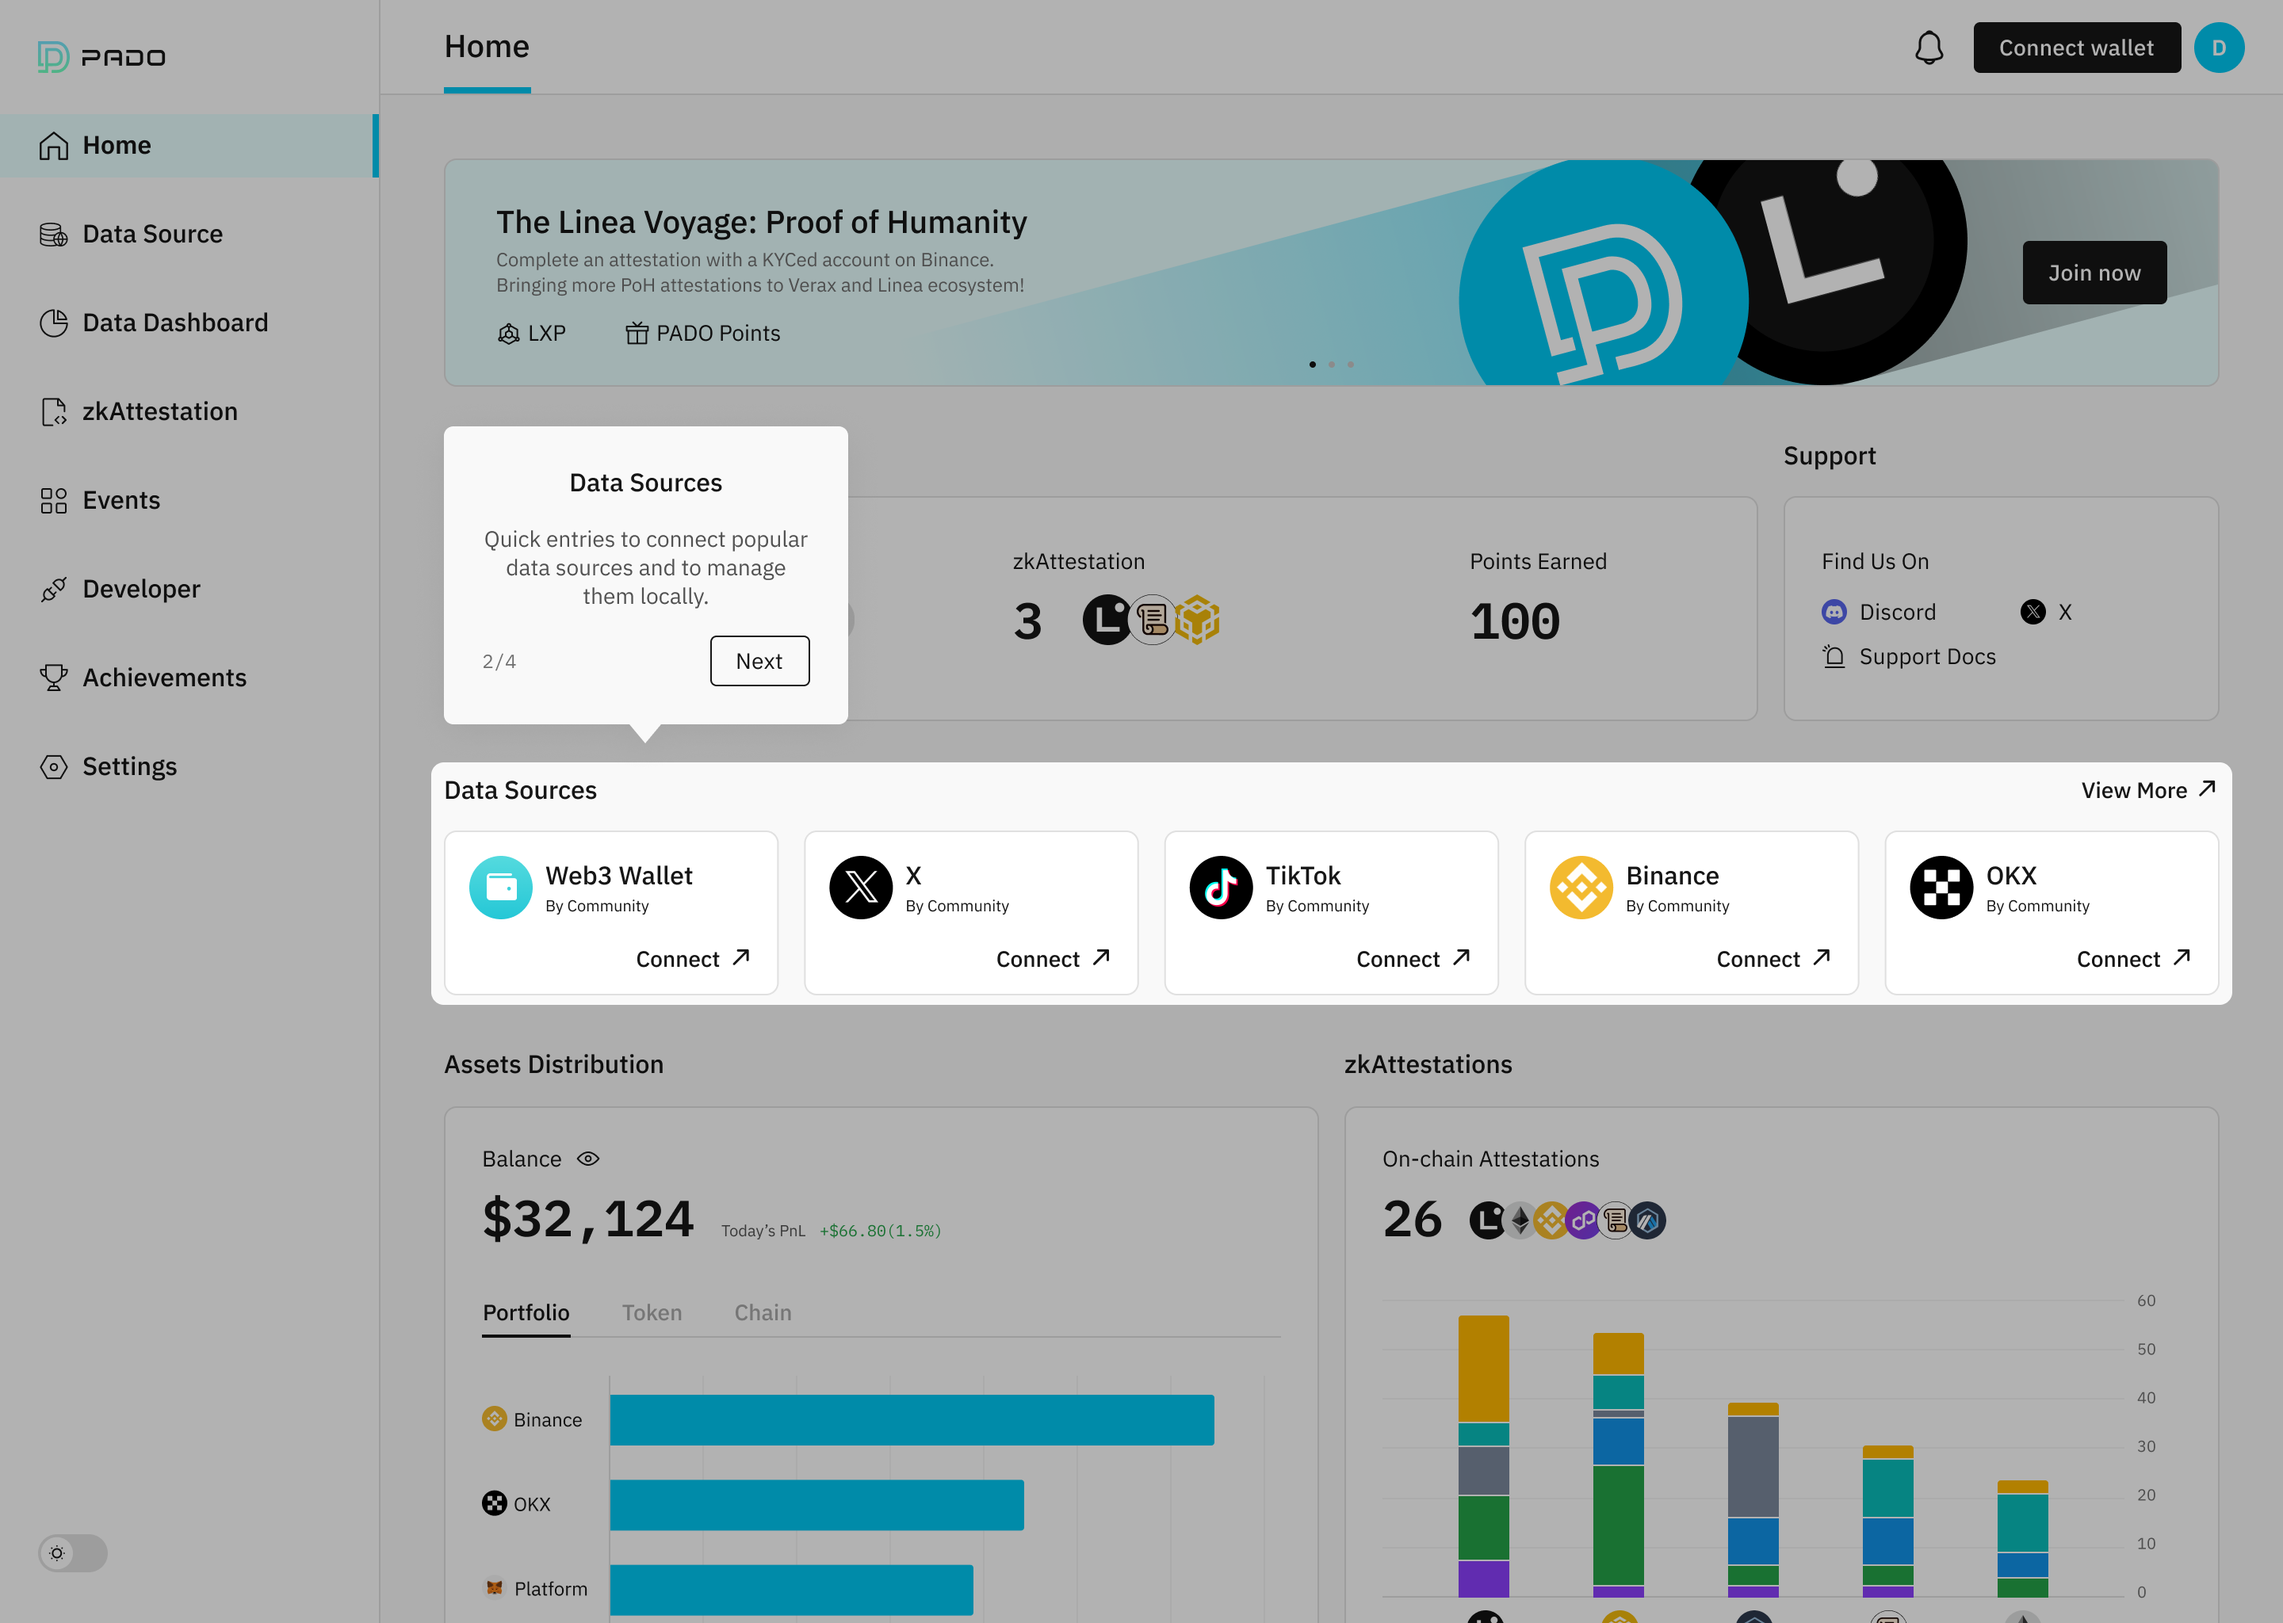
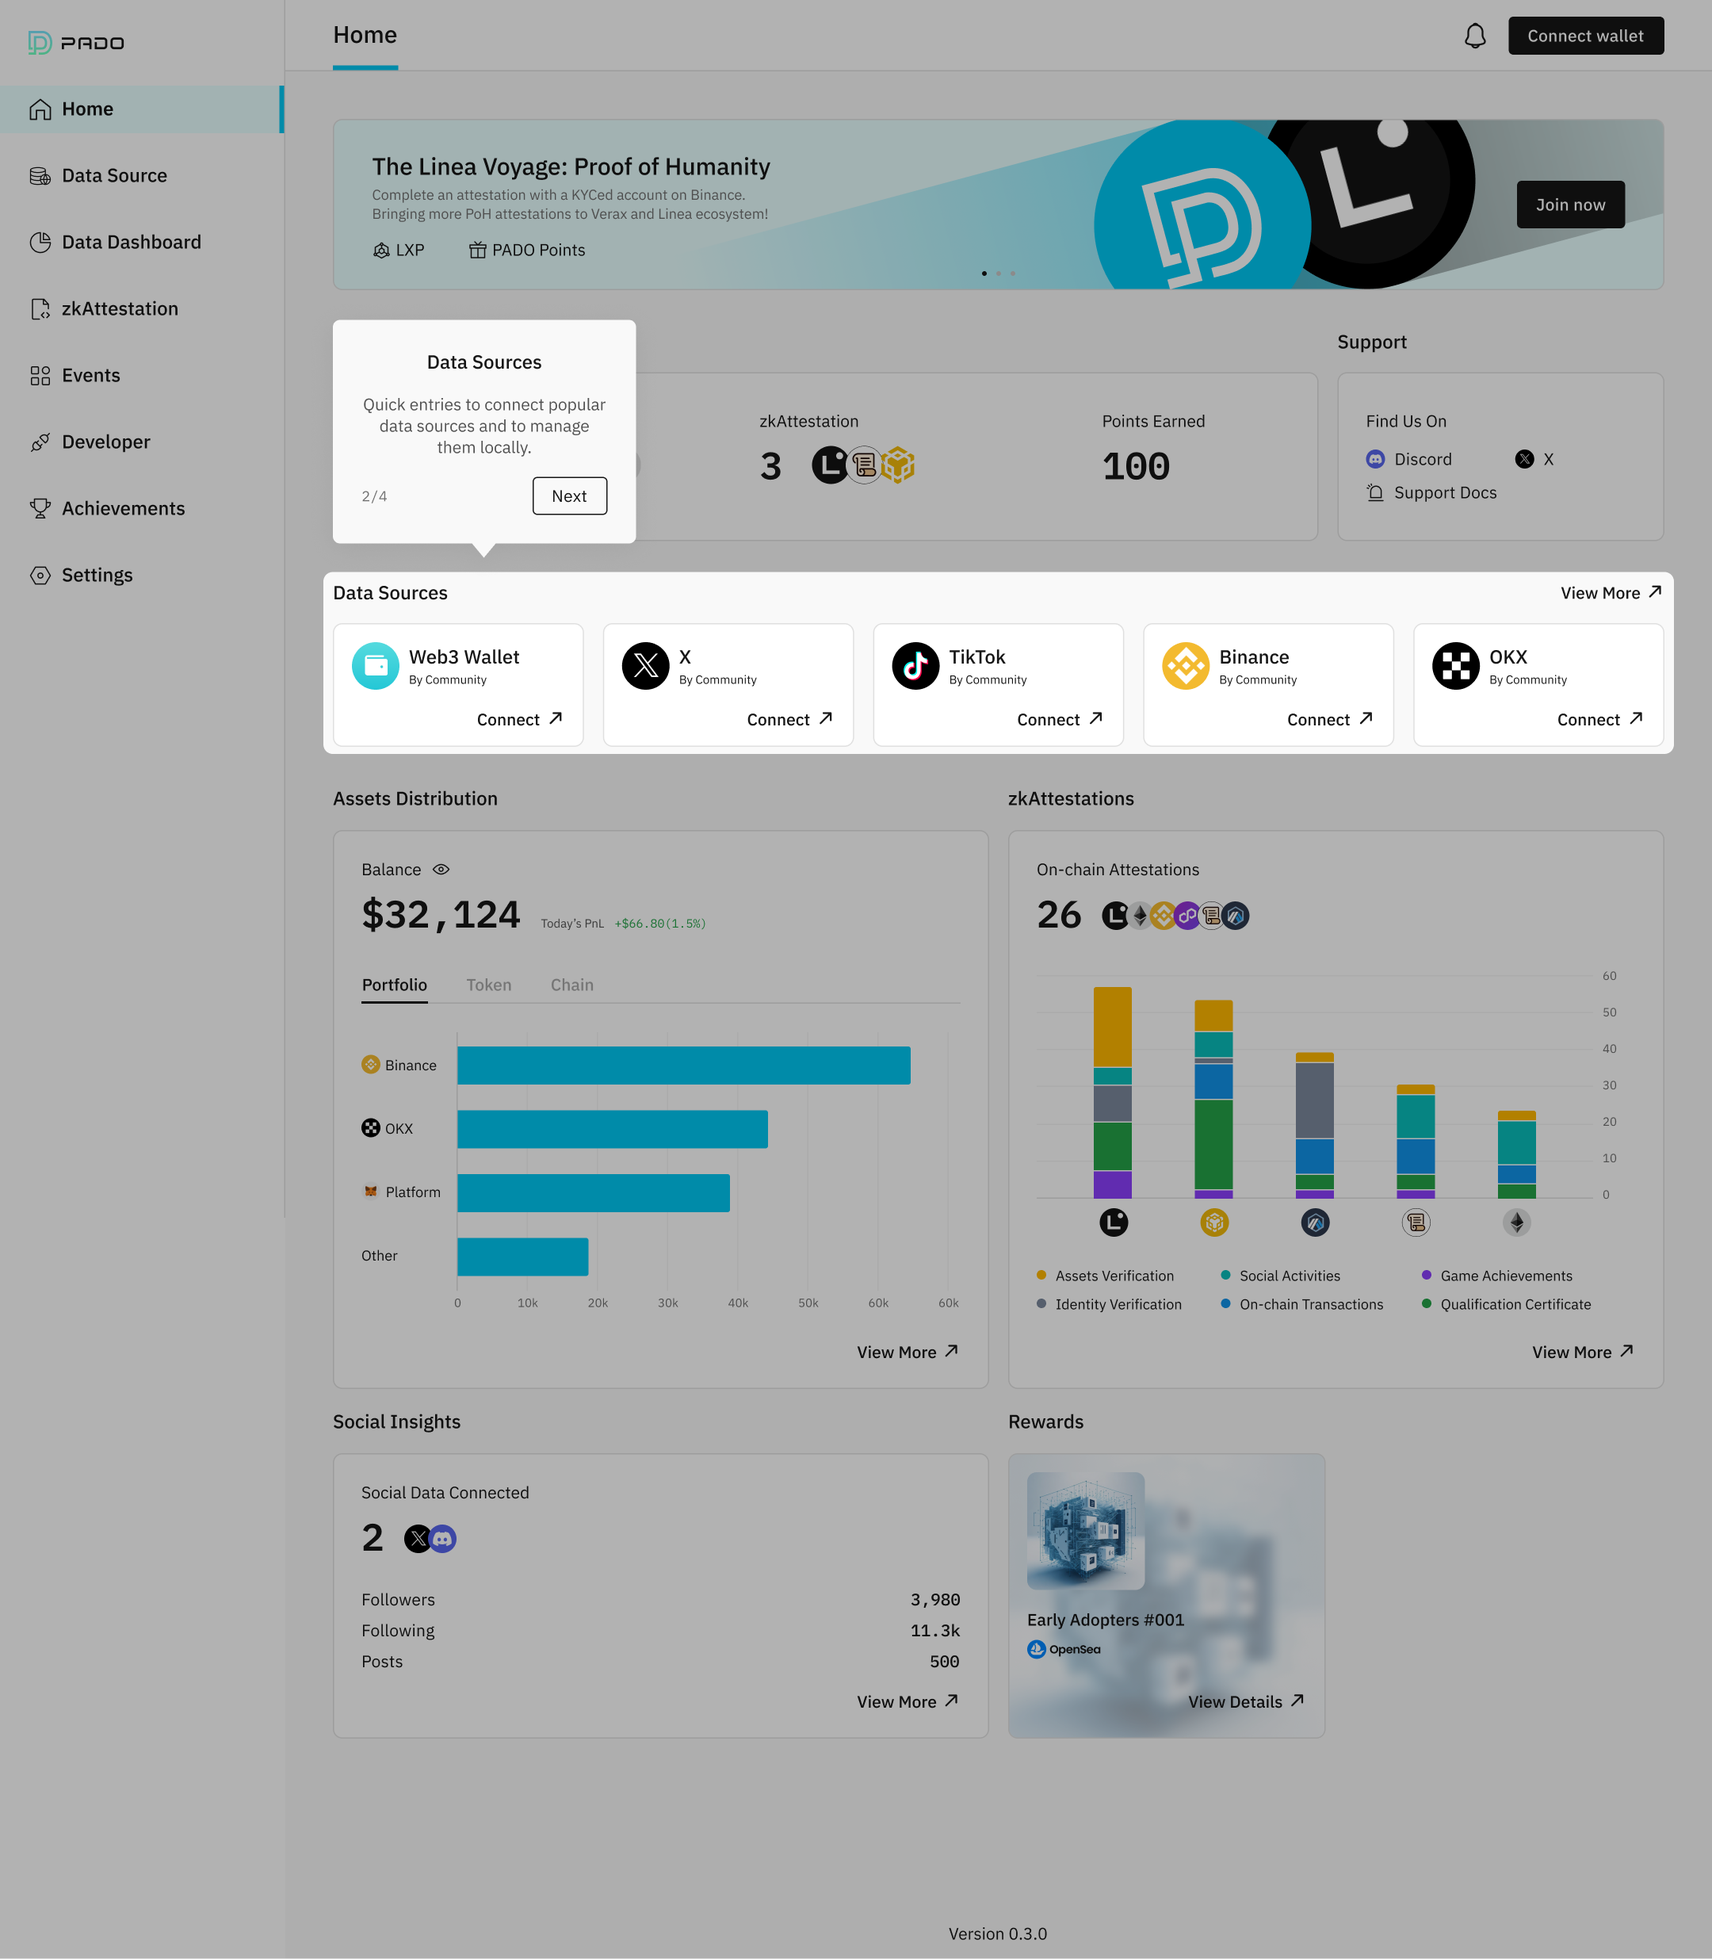
update guide imgs

diff --git a/src/pages/Home/Home.jsx b/src/pages/Home/Home.jsx
@@ -10,6 +10,7 @@ import { useNavigate, useSearchParams } from 'react-router-dom';
 import { useSelector, useDispatch } from 'react-redux';
 import useListener from '@/hooks/useListener';
 import useTimeout from '@/hooks/useTimeout';
+import useWinWidth from '@/hooks/useWinWidth';
 import { postMsg } from '@/utils/utils';
 import ReferralCodeInput from '@/newComponents/Ahievements/ReferralCodeInput';
 import page1 from '@/assets/newImg/guide/page1.png';
@@ -23,17 +24,28 @@ import './home.scss';
 import useCreateAccount from '@/hooks/useCreateAccount';
 
 const Home = memo(() => {
+  const size = useWinWidth();
   const { createAccountFn } = useCreateAccount();
   const guideImg = useRef(null);
   useListener();
   const navigate = useNavigate();
   const [visibleReferralCodeDialog, setVisibleReferralCodeDialog] = useState();
-  const [step, setStep] = useState(0);
+  const [step, setStep] = useState(2);
   const [timeoutStep2Switch, setTimeoutStep2Switch] = useState(false);
   const [showInputPasswordDialog, setShowInputPasswordDialog] = useState(false);
   const [lastTheme, setLastTheme] = useState('light');
   const padoServicePort = useSelector((state) => state.padoServicePort);
-
+  const cName = useMemo(() => {
+    if (size.width >= 1366) {
+      if ([0, 4, 5].includes(step)) {
+        return 'fixedH';
+      } else if ([1, 2, 3].includes(step)) {
+        return 'autoH';
+      }
+    } else {
+      return 'autoH';
+    }
+  }, [step, size]);
   const imgSrc = useMemo(() => {
     let s = page1;
     switch (step) {
@@ -58,18 +70,14 @@ const Home = memo(() => {
     }
     return s;
   }, [step]);
-  const timeoutStep1Fn = async () => {
-    const f = await checkIsFirstLogin();
-    if (f) {
-      setStep(2);
-      setTimeoutStep2Switch(true);
-    }
-  };
-  useTimeout(timeoutStep1Fn, 1300, true, false);
-  // const timeoutStep2Fn = () => {
-  //   setStep(2);
+  // const timeoutStep1Fn = async () => {
+  //   const f = await checkIsFirstLogin();
+  //   if (f) {
+  //     setStep(2);
+  //     setTimeoutStep2Switch(true);
+  //   }
   // };
-  // useTimeout(timeoutStep2Fn, 1000, timeoutStep2Switch, false);
+  // useTimeout(timeoutStep1Fn, 1300, true, false);
   const initAccount = useCallback(async () => {
     const { keyStore, padoCreatedWalletAddress, privateKey, userInfo } =
       await chrome.storage.local.get([
@@ -121,7 +129,7 @@ const Home = memo(() => {
   //   checkIsFirstLogin();
   // }, [checkIsFirstLogin]);
   useEffect(() => {
-    if (guideImg.current) {
+    if (guideImg.current && size.width >= 1366) {
       if (step === 4) {
         guideImg.current.scrollIntoView({ block: 'end', behavior: 'smooth' });
         // guideImg.current.scrollTop = (460 / 1440) * window.innerWidth;
@@ -130,7 +138,7 @@ const Home = memo(() => {
         guideImg.current.scrollIntoView({ block: 'start', behavior: 'smooth' });
       }
     }
-  }, [step, guideImg]);
+  }, [step, guideImg, size]);
   useEffect(() => {
     initAccount();
   }, [initAccount]);
@@ -143,13 +151,7 @@ const Home = memo(() => {
 
   return (
     <div
-      className={`pageGuide ${lastTheme} ${
-        [0, 4, 5].includes(step)
-          ? 'fixedH'
-          : [1, 2, 3].includes(step)
-          ? 'autoH'
-          : ''
-      }`}
+      className={`pageGuide ${lastTheme} ${cName} `}
     >
       {step > 0 && (
         <img

diff --git a/src/newComponents/Home/DataSources/index.tsx b/src/newComponents/Home/DataSources/index.tsx
@@ -11,10 +11,12 @@ import { useNavigate } from 'react-router-dom';
 import { useSelector } from 'react-redux';
 import useAllSources from '@/hooks/useAllSources';
 import useBreakPoint from '@/hooks/useBreakPoint';
+import useWinWidth from '@/hooks/useWinWidth';
 import { UserState } from '@/types/store';
 
 const Overview = memo(() => {
   const breakPoint = useBreakPoint();
+  const size = useWinWidth();
   const { sourceMap, sourceMap2 } = useAllSources();
   const dispatch = useDispatch();
   const activeConnectDataSource = useSelector(
@@ -23,10 +25,14 @@ const Overview = memo(() => {
   const [activeConnectDataSourceId, setActiveConnectDataSourceId] =
     useState<string>();
   const navigate = useNavigate();
-  const dataSourceList =
-    breakPoint === 'l'
-      ? ['web3 wallet', 'x', 'tiktok']
-      : ['web3 wallet', 'x', 'tiktok', 'binance', 'okx'];
+  let dataSourceList = ['web3 wallet', 'x'];
+  if ( size.width >= 1342 ) {
+    dataSourceList = ['web3 wallet', 'x', 'tiktok', 'binance', 'okx']
+  } else if ( size.width >= 1128 ) {
+    dataSourceList = ['web3 wallet', 'x', 'tiktok', 'binance']
+  } else if ( size.width >= 914 ) {
+    dataSourceList = ['web3 wallet', 'x', 'tiktok']
+  }
   const checkIsConnectedDataSourceFn = useCallback(
     (i) => {
       let hasConnectCurrent = !!sourceMap2[i] && sourceMap2[i]?.expired !== '1';

diff --git a/src/newComponents/Events/Slider/index.tsx b/src/newComponents/Events/Slider/index.tsx
@@ -12,7 +12,12 @@ import PButton from '@/newComponents/PButton';
 import adLinea from '@/assets/newImg/events/adLinea.svg';
 import adBas from '@/assets/newImg/events/adBas.svg';
 import adEthSign from '@/assets/newImg/events/adEthSign.svg';
-import bannerBgBas from '@/assets/newImg/events/bannerBgBas.svg';
+// import bannerBgBas from '@/assets/newImg/events/bannerBgBas.svg';
+// import bannerBgBas from '@/assets/newImg/events/a0.svg';
+// import bannerBgBas from '@/assets/newImg/events/a1.svg';
+// import bannerBgBas from '@/assets/newImg/events/a3.svg';
+import bannerBgBas from '@/assets/newImg/events/a4.svg';
+
 import bannerBgLinea from '@/assets/newImg/events/bannerBgLinea.svg';
 import bannerBgEthSign from '@/assets/newImg/events/bannerBgEthSign.svg';
 import './index.scss';
@@ -24,7 +29,7 @@ var settings = {
   speed: 500,
   slidesToShow: 1,
   slidesToScroll: 1,
-  autoplay: true,
+  // autoplay: true,// TODO!!!
   pauseOnHover: true,
   nextArrow: <></>,
   prevArrow: <></>,

diff --git a/src/newComponents/Home/Support/index.scss b/src/newComponents/Home/Support/index.scss
@@ -3,11 +3,16 @@
 .homeSupport {
   --homeSupport-width: 1.9097rem;
 }
-// @media (max-width: 1819px) {
-//   .homeSupport {
-//     --homeSupport-width: 275px;
-//   }
-// }
+@media (max-width: 1819px) {
+  .homeSupport {
+    --homeSupport-width: 275px;
+  }
+}
+@media (max-width: 1439px) {
+  .homeSupport {
+    --homeSupport-width: 200px;
+  }
+}
 .homeSupport {
   @include fccs;
   width: var(--homeSupport-width);
@@ -47,6 +52,17 @@
         > .iconfont {
           font-size: var(--spacing-16);
           color: var(--icon-tokens-icon-primary);
+        }
+      }
+    }
+  }
+}
+@media (max-width: 1439px) {
+  .homeSupport {
+    .content {
+      .mediaItems {
+        .mediaItem {
+          width: 100%;
         }
       }
     }

diff --git a/src/newComponents/Home/DataSources/index.scss b/src/newComponents/Home/DataSources/index.scss
@@ -72,11 +72,29 @@
     }
   }
 }
-@media (max-width: 1365px) {
+@media (max-width: 1341px) {
+  .homeDataSources {
+    .dataSourceItems {
+      .dataSourceItem {
+        width: calc((100% - var(--spacing-16) * 3) / 4);
+      }
+    }
+  }
+}
+@media (max-width: 1127px) {
   .homeDataSources {
     .dataSourceItems {
       .dataSourceItem {
         width: calc((100% - var(--spacing-16) * 2) / 3);
+      }
+    }
+  }
+}
+@media (max-width: 913px) {
+  .homeDataSources {
+    .dataSourceItems {
+      .dataSourceItem {
+        width: calc((100% - var(--spacing-16) * 1) / 2);
       }
     }
   }

diff --git a/src/newComponents/Events/Slider/index.scss b/src/newComponents/Events/Slider/index.scss
@@ -40,7 +40,7 @@
           right: 0;
           top: 50%;
           transform: translateY(-50%);
-          width: 872px;
+          // width: 872px;
           height: 144px;
         }
         .content {
@@ -132,3 +132,17 @@
     }
   }
 }
+// @media (max-width: 1365px) {
+//   .eventsSlider {
+//     .slick-slider {
+//       .slick-list .slick-slide > div {
+//         .homeBanner {
+//           .bg {
+//             width: 540.64px;
+//             height: calc( 540.64px / (872/144) );
+//           }
+//         }
+//       }
+//     }
+//   }
+// }

diff --git a/src/assets/newCss/global.css b/src/assets/newCss/global.css
@@ -123,17 +123,18 @@
 @media (max-width: 1439px) {
   :root {
     /* --pageContent-width: 736px; */
-    --pageContent-width: 7.1875rem;
+    /* --pageContent-width: 7.1875rem; */
+    --pageContent-width: calc(100vw - var(--sidebar-width) - 24px * 2);
     /* --pageContent-maxWidth: 1399px; */
   }
 }
 
-/* @media (max-width: 1366px) {
+@media (max-width: 1366px) {
   :root {
-    --pageContent-width: 1109px;
+    /* --pageContent-width: 1109px; */
     --sidebar-width: 224px;
   }
-} */
+}
 .light,
 .white,
 #pado-extension-content,

diff --git a/src/newComponents/Layout/Header/index.tsx b/src/newComponents/Layout/Header/index.tsx
@@ -70,9 +70,9 @@ const Nav: React.FC = memo(({}) => {
         /> */}
           <Notification />
           <PConnect />
-          <div className="avatar">
+          {/* <div className="avatar">
             <img src={iconAvatar} alt="" />
-          </div>
+          </div> */}
         </div>
       </div>
     </div>
